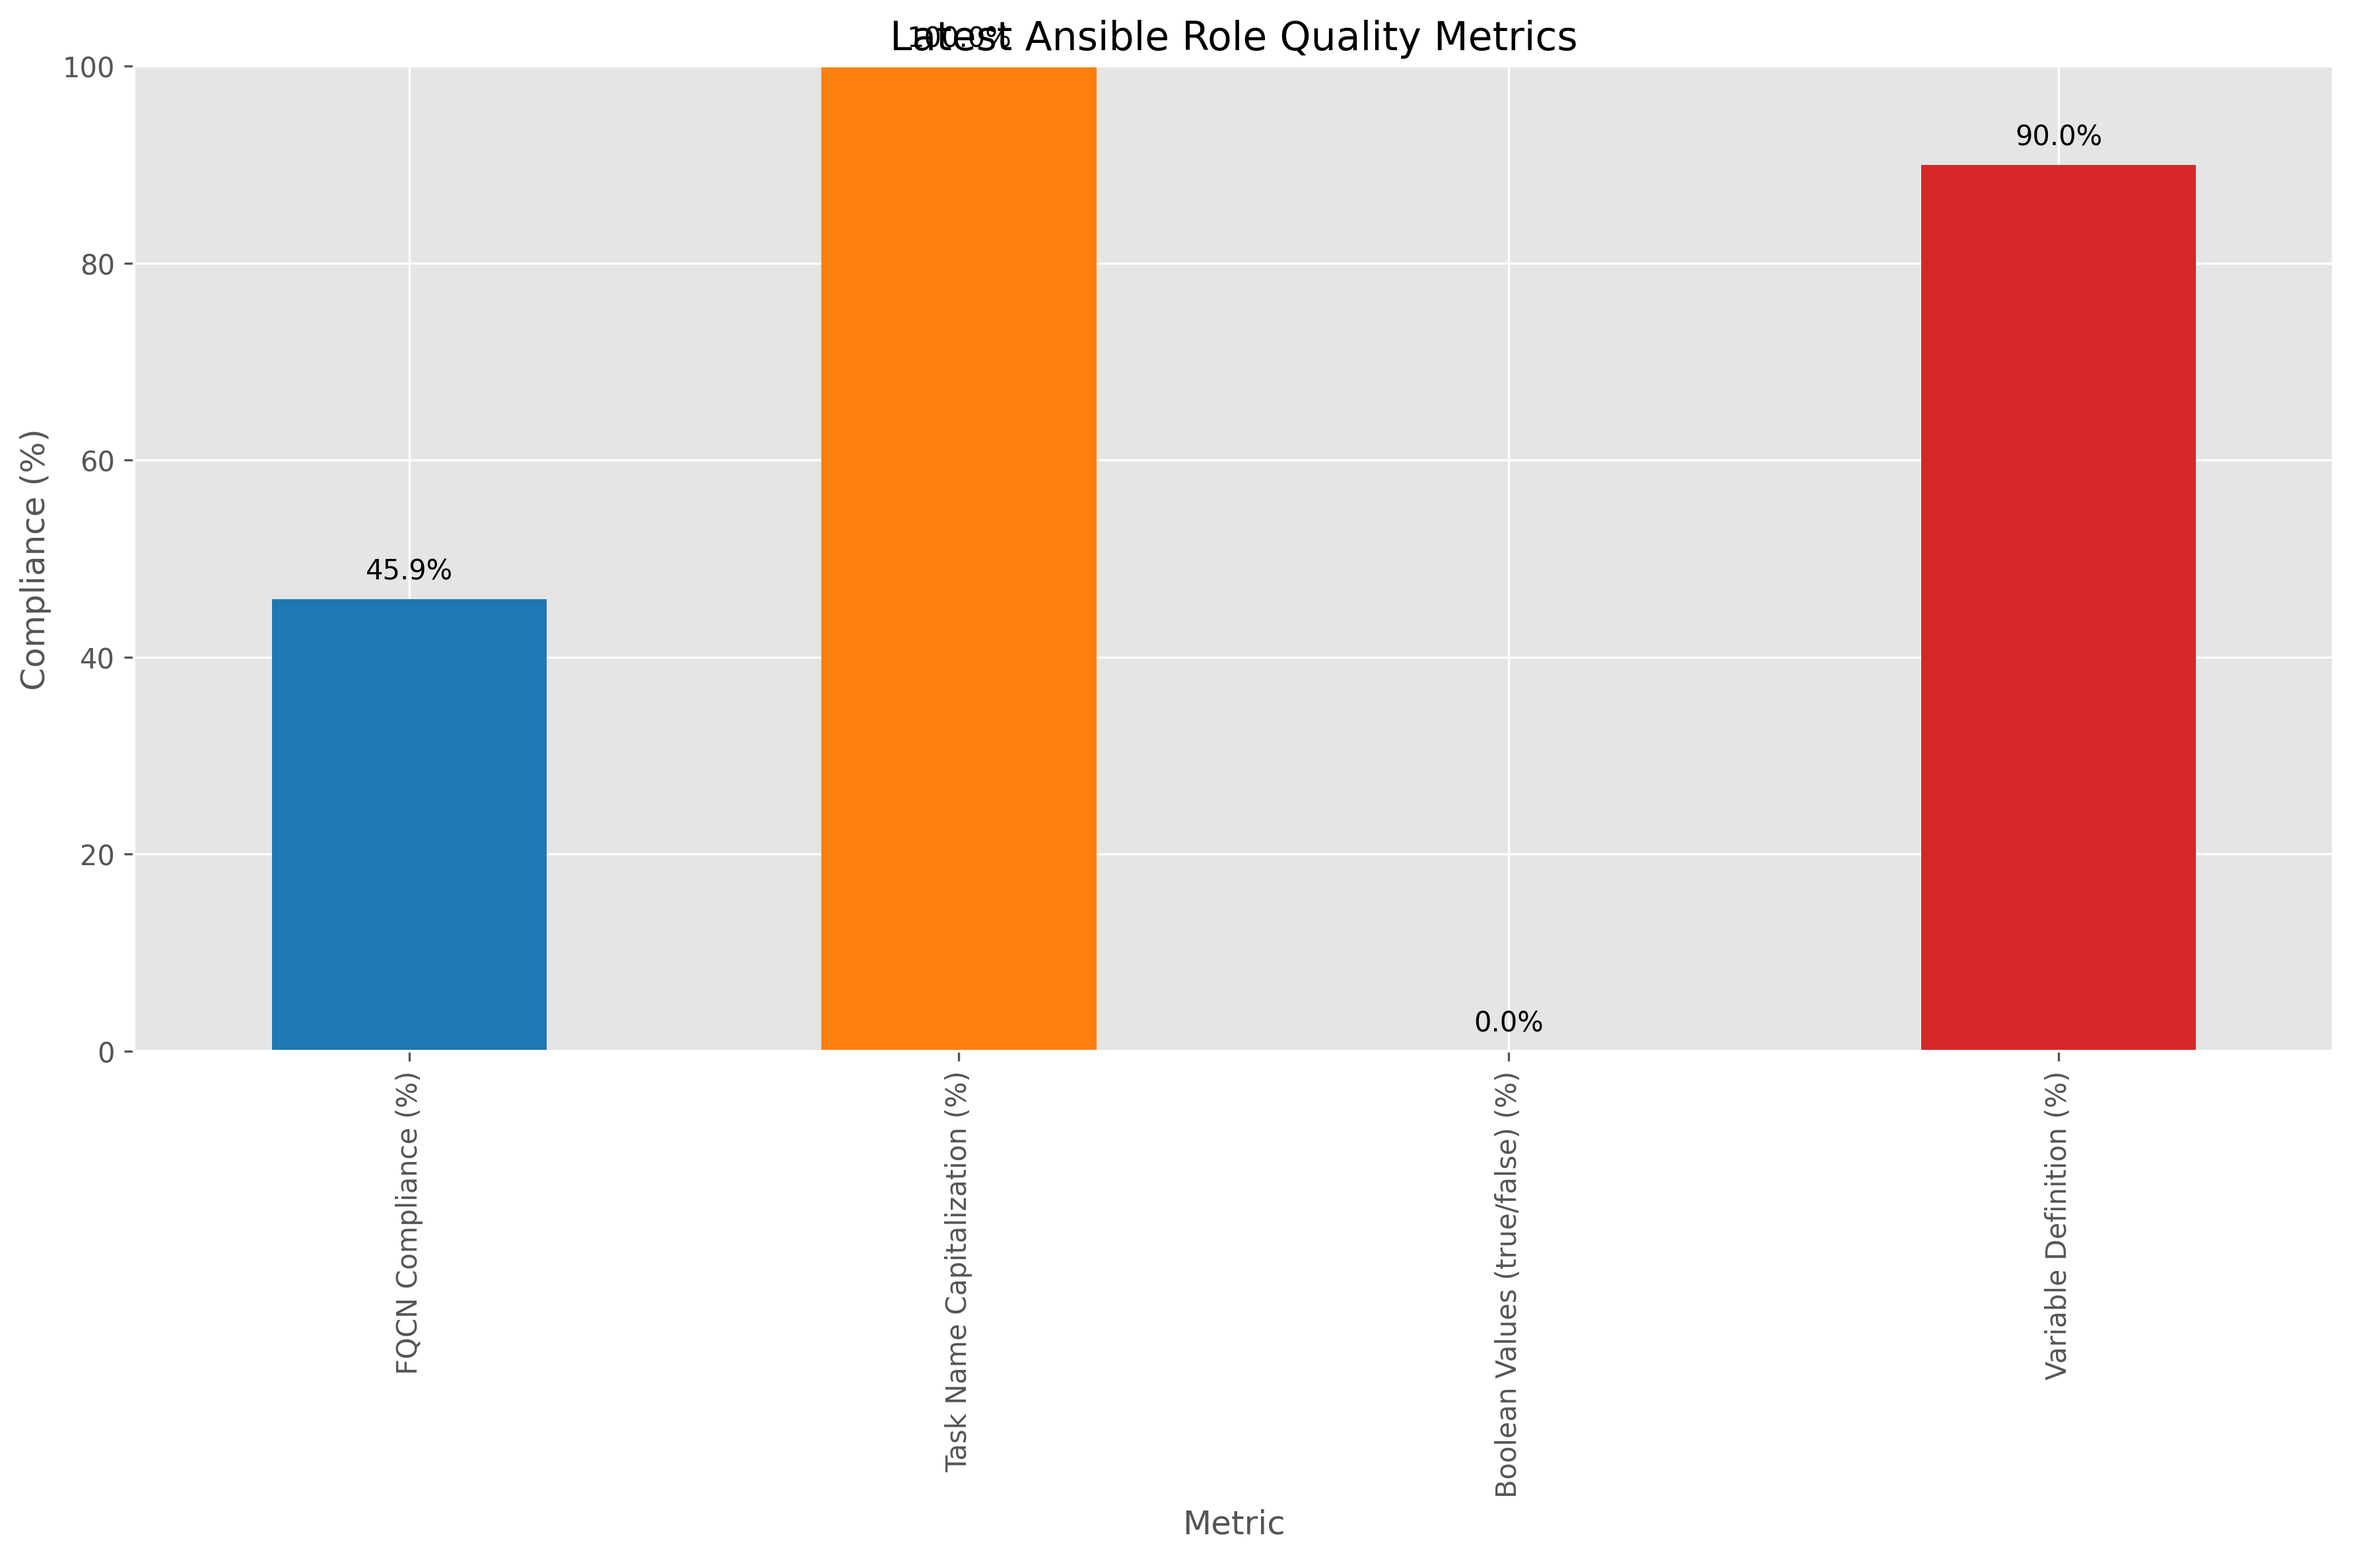
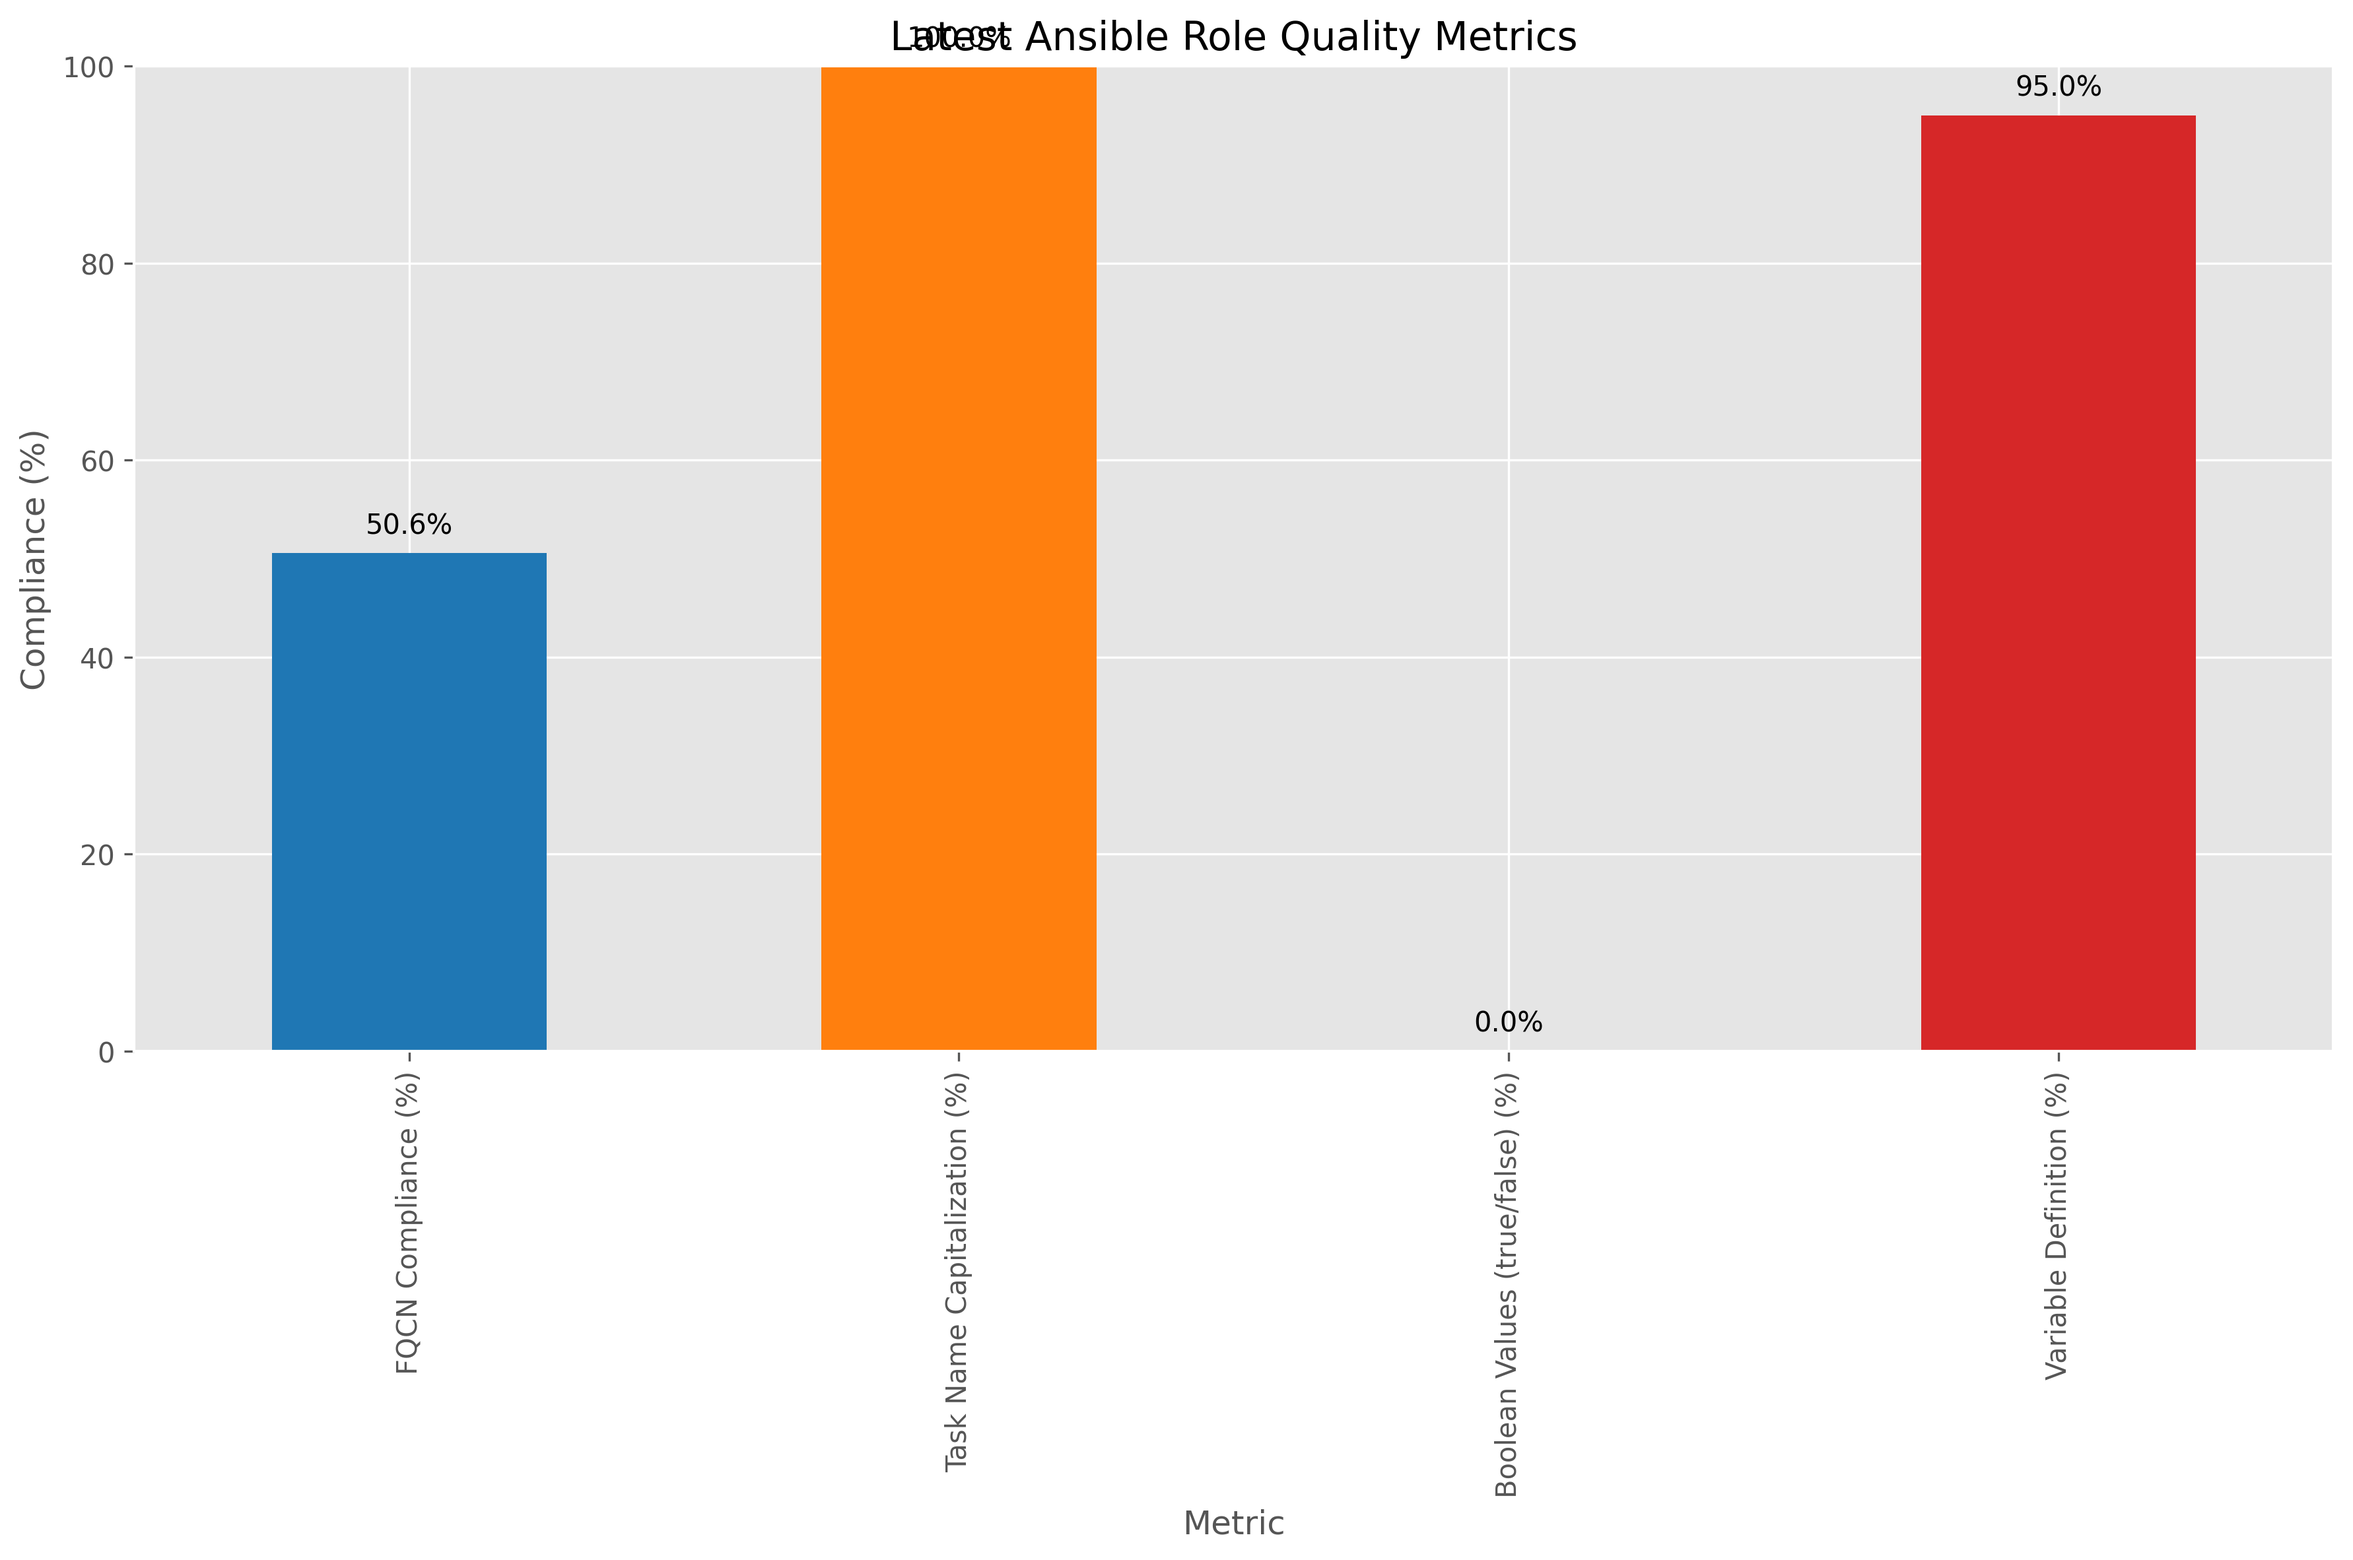
Update metrics (automated) 86381e575e3cb567ae7d61f2b827ec3665fe9a28

Changed region(s): [[0.0934, 0.3088, 0.2492, 0.4014], [0.8098, 0.0309, 0.9343, 0.1235]]

diff --git a/metrics/metrics_summary.md b/metrics/metrics_summary.md
@@ -1,15 +1,15 @@
 # Chef to Ansible Conversion Metrics
 
-Last updated: 2025-05-25 00:30:14
+Last updated: 2025-06-01 00:32:32
 
 ## Latest Compliance Metrics
 
 | Metric | Value |
 |--------|-------|
-| FQCN Compliance (%) | 45.88% |
+| FQCN Compliance (%) | 50.56% |
 | Task Name Capitalization (%) | 100.00% |
 | Boolean Values (true/false) (%) | 0.00% |
-| Variable Definition (%) | 90.00% |
+| Variable Definition (%) | 95.00% |
 
 ## Compliance Metrics Over Time
 
